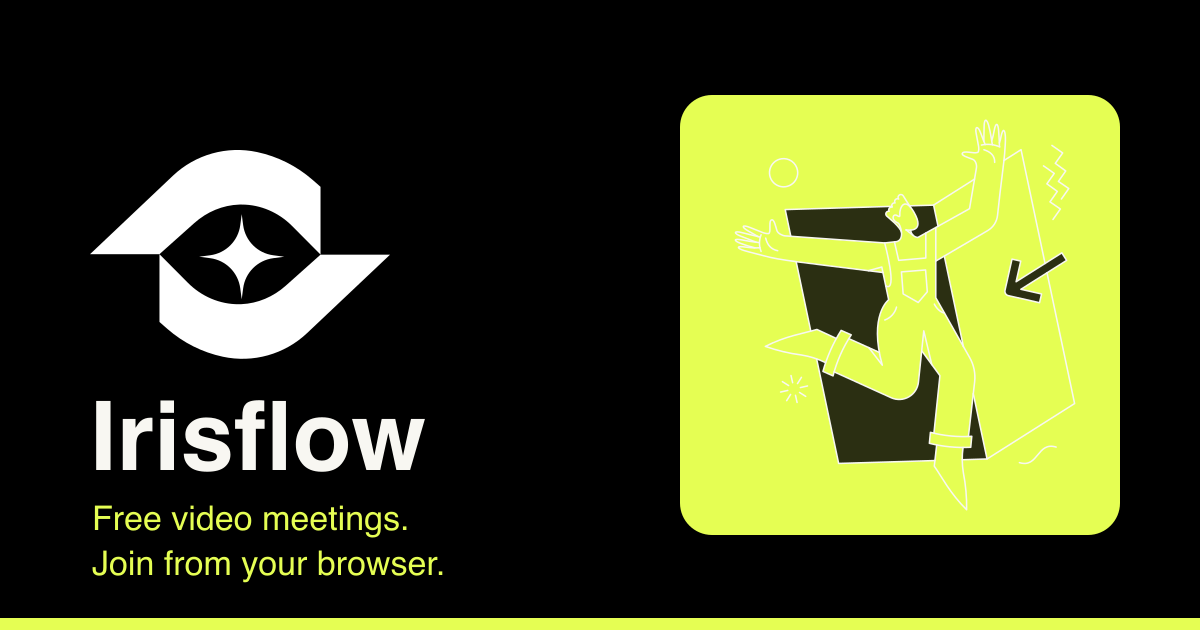
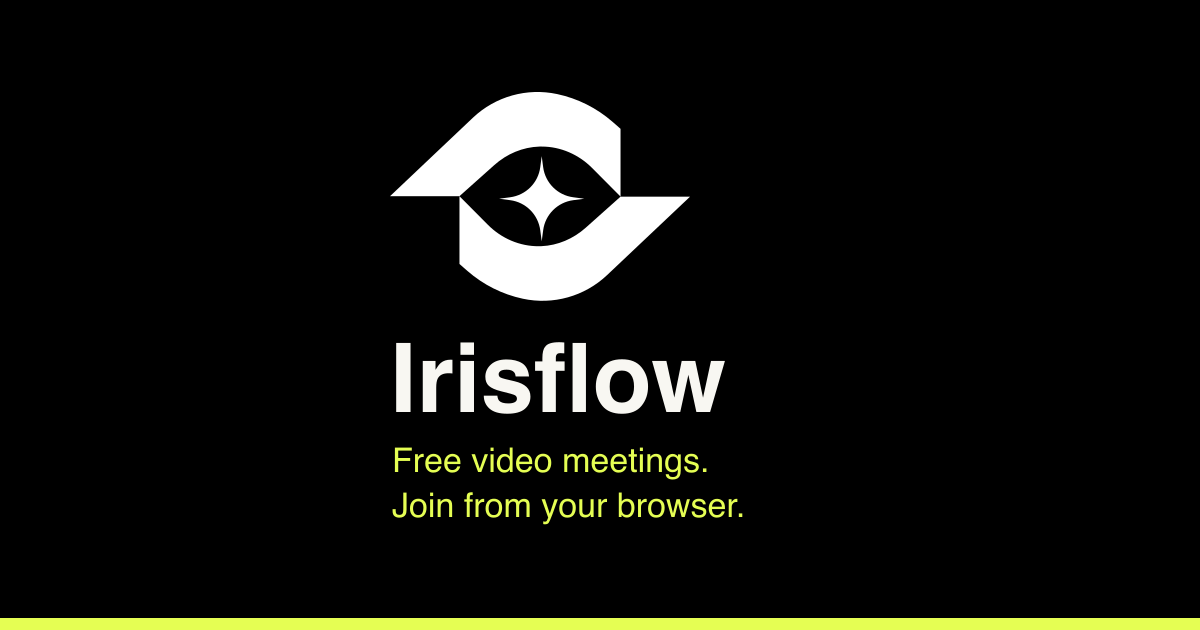
Fix meeting start on https and drop yellow block from link preview
LiveKit URL now falls back to wss://<host> on https pages, so a build
without VITE_LIVEKIT_URL no longer disconnects immediately. Link preview
image no longer has the illustration block; og:image URL gets ?v=2 to
bypass the Cloudflare cache.

diff --git a/app/web/index.html b/app/web/index.html
@@ -12,11 +12,11 @@
 <meta property="og:title" content="Join my Irisflow meeting">
 <meta property="og:description" content="Free video meetings. Join from your browser, nothing to install.">
 <meta property="og:url" content="https://iris.sdcloud.uk/">
-<meta property="og:image" content="https://iris.sdcloud.uk/og.png">
+<meta property="og:image" content="https://iris.sdcloud.uk/og.png?v=2">
 <meta property="og:image:width" content="1200">
 <meta property="og:image:height" content="630">
 <meta name="twitter:card" content="summary_large_image">
-<meta name="twitter:image" content="https://iris.sdcloud.uk/og.png">
+<meta name="twitter:image" content="https://iris.sdcloud.uk/og.png?v=2">
 </head>
 <body><div id="root"></div><script type="module" src="/src/main.jsx"></script></body>
 </html>

diff --git a/app/web/src/Room.jsx b/app/web/src/Room.jsx
@@ -8,7 +8,8 @@ import MeetingView from './MeetingView.jsx'
 import { copyText } from './Invite.jsx'
 import { getGrant } from './grant.js'
 
-const LK_URL = import.meta.env.VITE_LIVEKIT_URL || `ws://${location.hostname}:7880`
+const LK_URL = import.meta.env.VITE_LIVEKIT_URL
+  || (location.protocol === 'https:' ? `wss://${location.host}` : `ws://${location.hostname}:7880`)
 function PreJoinPanel({ code, isHost, onSubmit, onBack, err, setErr }) {
   const [name, setName] = useState('')
   const [nameErr, setNameErr] = useState(false)
